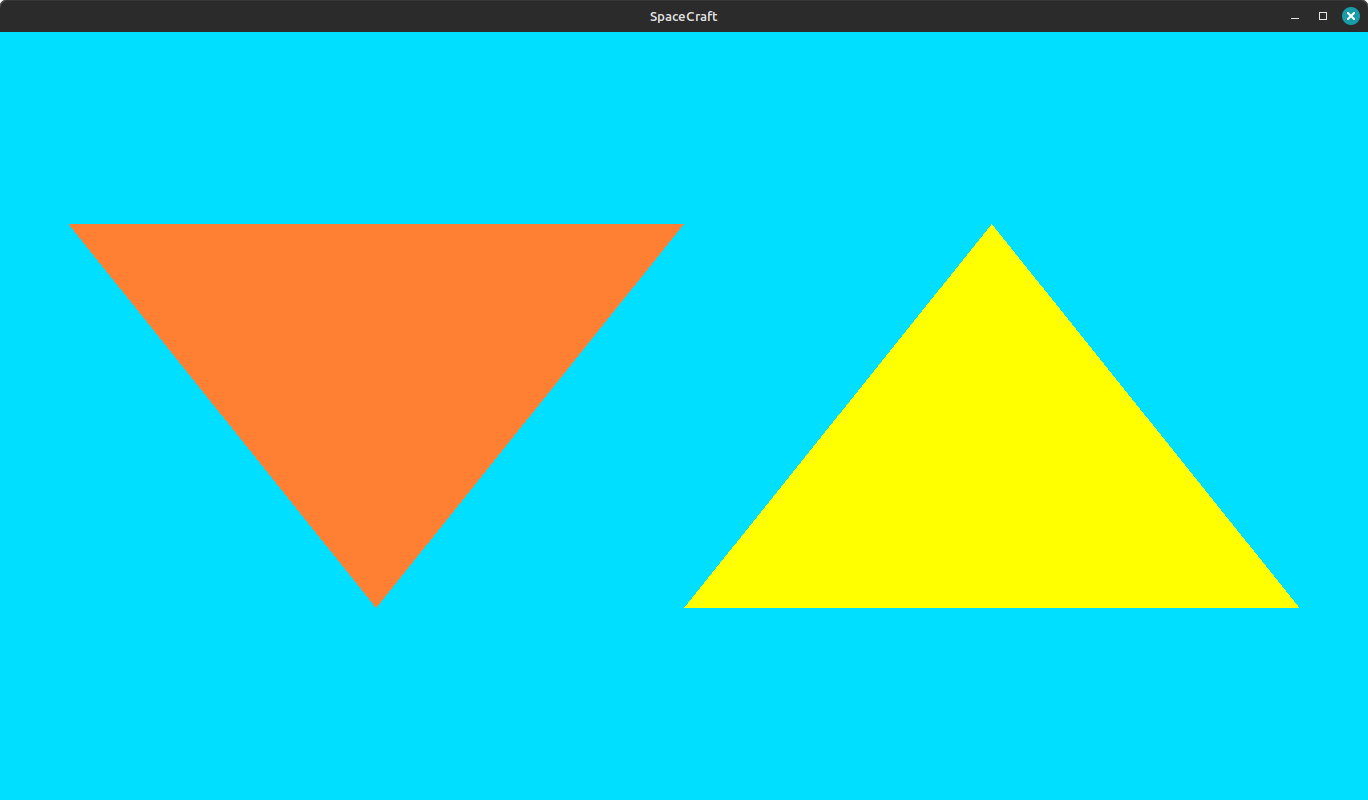
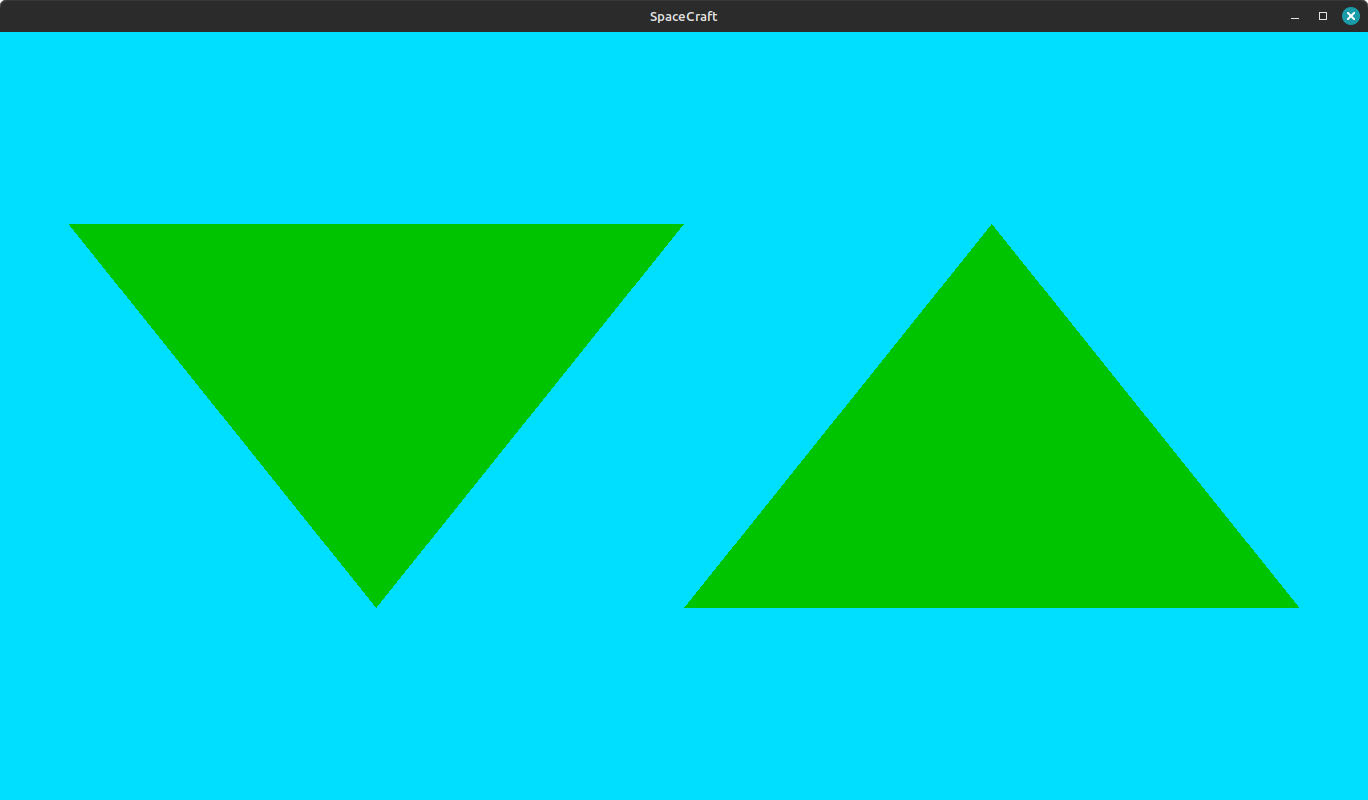
Updates main loop to animate (currently both) triangles using myCustomColor uniform

Changed region(s): [[0.4912, 0.2812, 0.9518, 0.7812], [0.0307, 0.2812, 0.4912, 0.75]]

diff --git a/src/main.cpp b/src/main.cpp
@@ -30,10 +30,12 @@ const char *vertexShaderSource = "#version 330 core\n"
 
 const char *fragmentShaderSource = "#version 330 core\n"
                                    "out vec4 FragColor;\n"
-                                   "in vec4 vertexColor;\n"
+                                   "\n"
+                                   "uniform vec4 myCustomColor;\n"
+                                   "\n"
                                    "void main()\n"
                                    "{\n"
-                                   "  FragColor = vertexColor;\n"
+                                   "  FragColor = myCustomColor;\n"
                                    "}\n";
 
 int main()
@@ -128,7 +130,7 @@ int main()
     glBindVertexArray(0);
 
     // Build and compile our shader program
-    unsigned int shaderProgramOrange = createShaderProgram(vertexShaderSource, fragmentShaderSource);
+    unsigned int shaderProgram = createShaderProgram(vertexShaderSource, fragmentShaderSource);
     // unsigned int shaderProgramYellow = createShaderProgram(vertexShaderSource, fragmentShader2Source);
 
     // Main loop
@@ -142,10 +144,18 @@ int main()
         glClearColor(0.0f, 0.875f, 1.0f, 1.0f);
         glClear(GL_COLOR_BUFFER_BIT); // Clear the color buffer
 
-        glUseProgram(shaderProgramOrange);
+        // UPDATE COLOR UNIFORM (this will be in the render loop since we want to change the color over time; if we set it outside the loop it would only change once)
+        // myCustomColor will be updated in the fragment shader
+        glUseProgram(shaderProgram);
+        float timeValue = glfwGetTime();
+        float greenValue = (sin(timeValue) / 2.0f) + 0.5f;
+        int vertexColorLocation = glGetUniformLocation(shaderProgram, "myCustomColor");
+        glUniform4f(vertexColorLocation, 0.0f, greenValue, 0.0f, 1.0f);
+
         // Draw FIRST triangle using the data from the first VAO...
         glBindVertexArray(VAOs[0]);
         glDrawArrays(GL_TRIANGLES, 0, 3);
+
         // ...then we draw the SECOND triangle using the data from the second(!) VAO
         glBindVertexArray(VAOs[1]);
         glDrawArrays(GL_TRIANGLES, 0, 3);
@@ -158,7 +168,7 @@ int main()
     // Clean up resources (Optional? Why?): de-allocate all resources once they've outlived their purpose
     glDeleteVertexArrays(2, VAOs);
     glDeleteBuffers(2, VBOs);
-    glDeleteProgram(shaderProgramOrange);
+    glDeleteProgram(shaderProgram);
 
     glfwDestroyWindow(window);
     glfwTerminate();
